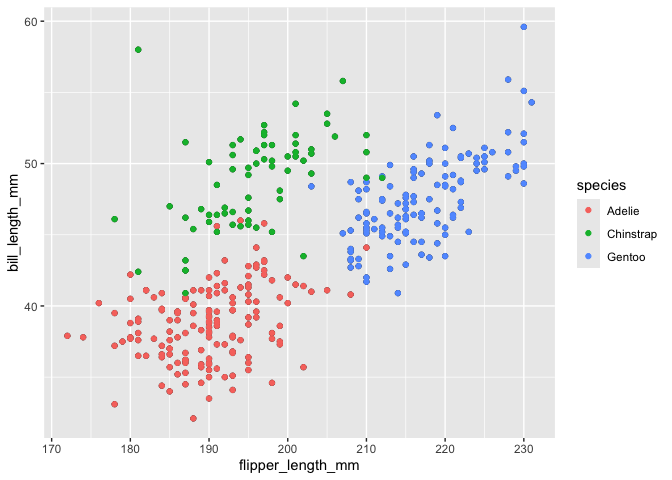
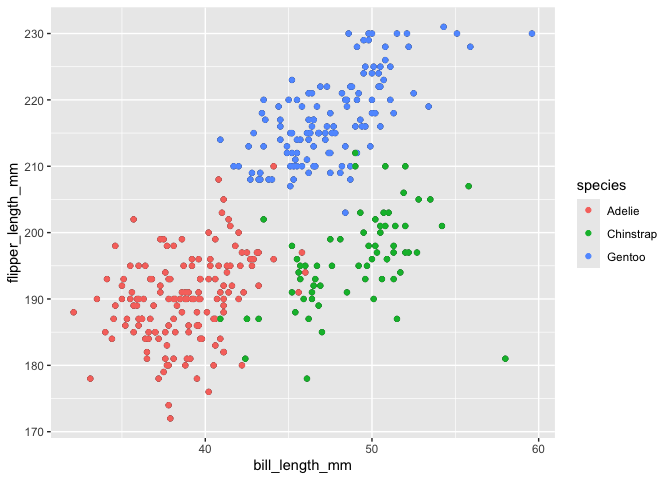
The vectors of the generated data frame were converted to numerical evaluated and the results were described. Cleaned up the project and flipped the scatterplot axes.

diff --git a/p8105_hw1_ryd2106.md b/p8105_hw1_ryd2106.md
@@ -8,27 +8,21 @@ Risa Dickerman
 ``` r
 #Load in data frame
 data("penguins", package = "palmerpenguins")
-
-#Calculate the mean flipper length per species
-flip_len_spec = aggregate(penguins$flipper_length_mm,
-                    list(penguins$species), mean, na.rm=TRUE)
 ```
 
-The penguins data set from the palmerpenguins package described the
+The penguins dataset from the palmerpenguins package described the
 morphological features of 344 different birds. There were 8 different
 variables observed. These variables included the bird’s bill_length_mm,
 bill_depth_mm, flipper_length_mm, body_mass_g, sex in addition to the
 penguin’s species, the island they lived on, and the year the samples
-were collected. The species, island, and sex variables were all
-factorial (category) values denoted by fct. The bill_length_mm and
-bill_depth_mm variables were numeric (dbl) while the year,
-flipper_length_mm, and body_mass_g were all integers (int).
+were collected. The species, island, and sex variables were all factor
+(category) values denoted by fct. The bill_length_mm and bill_depth_mm
+variables were numeric (dbl) while the year, flipper_length_mm, and
+body_mass_g were all integers (int).
 
 This study found several interesting statistics of the penguins on the
 following islands: Torgersen, Biscoe, Dream. For example, it was found
-that the mean flipper length of all these birds lie at 201mm. The mean
-flipper lengths of the Adelie, Chinstrap, and Gentoo penguins were
-190mm, 196mm, and 217mm respectively.
+that the mean flipper length of all these birds lie at 201mm.
 
 Visualizations of certain features are presented below:
 
@@ -37,7 +31,7 @@ penguins is shown below:
 
 ``` r
 #Create the scatterplot and save
-ggplot(data = penguins, mapping = aes(x = flipper_length_mm, y = bill_length_mm)) + geom_point() + geom_point(aes(color=species))
+ggplot(data = penguins, mapping = aes(x = bill_length_mm, y = flipper_length_mm)) + geom_point() + geom_point(aes(color=species))
 ```
 
 ![](p8105_hw1_ryd2106_files/figure-gfm/scatter_plot-1.png)<!-- -->
@@ -57,33 +51,37 @@ prob2_df = tibble(
   vec_random = rnorm(10, mean = 0, sd= 1 ),
   vec_logical = (vec_random > 0),
   vec_character = c("It", "was", "the", "best", "of", "times,", "it", "was", "the", "worst.."),
-  vec_factorial = factor(c("mild", "medium", "medium", "hot", "mild", "hot", "medium", "hot", "medium", "mild"))
+  vec_factor = factor(c("mild", "medium", "medium", "hot", "mild", "hot", "medium", "hot", "medium", "mild"))
 )
 
 #Take the mean of the variables
+  #Mean of the random vector
 mean_random = mean(
   pull(prob2_df,1))
+  #Mean of the logical vector
 mean_logical = mean(
   pull(prob2_df,2))
+  #Mean of the character vector
 mean_character = mean(
   pull(prob2_df,3))
-mean_factorial =mean(
+  #Mean of the factor vector
+mean_factor =mean(
   pull(prob2_df,4))
 prob2_df
 ```
 
     ## # A tibble: 10 × 4
-    ##    vec_random vec_logical vec_character vec_factorial
-    ##         <dbl> <lgl>       <chr>         <fct>        
-    ##  1    -1.63   FALSE       It            mild         
-    ##  2    -1.60   FALSE       was           medium       
-    ##  3    -0.682  FALSE       the           medium       
-    ##  4     0.0979 TRUE        best          hot          
-    ##  5    -0.530  FALSE       of            mild         
-    ##  6    -0.702  FALSE       times,        hot          
-    ##  7    -0.737  FALSE       it            medium       
-    ##  8    -0.324  FALSE       was           hot          
-    ##  9    -1.17   FALSE       the           medium       
+    ##    vec_random vec_logical vec_character vec_factor
+    ##         <dbl> <lgl>       <chr>         <fct>     
+    ##  1    -1.63   FALSE       It            mild      
+    ##  2    -1.60   FALSE       was           medium    
+    ##  3    -0.682  FALSE       the           medium    
+    ##  4     0.0979 TRUE        best          hot       
+    ##  5    -0.530  FALSE       of            mild      
+    ##  6    -0.702  FALSE       times,        hot       
+    ##  7    -0.737  FALSE       it            medium    
+    ##  8    -0.324  FALSE       was           hot       
+    ##  9    -1.17   FALSE       the           medium    
     ## 10     0.214  TRUE        worst..       mild
 
 When taking the mean of each variable in the prob2_df, some make sense
@@ -91,5 +89,36 @@ while others do not. The most logical result is the random vector’s
 (vec_randomn) mean of -0.706972. The mean of the logical vector
 (vec_logical), however, returns the numerical value 0.2 even though it
 is taken from the logical values TRUE and FALSE. Finally, taking the
-mean of both the character (vec_character) and factorial (vec_factorial)
+mean of both the character (vec_character) and factor (vec_factor)
 vectors return a NA value.
+
+One can attempt to get these non-numeric values to become integers
+through the as.numeric function but the results are mixed.
+
+``` r
+#Convert the logical vector to a numerical answer
+as.numeric(
+  pull(prob2_df,2))
+#Convert the character vector to a numerical answer
+as.numeric(
+  pull(prob2_df,3))
+#Convert the factor vector to a numerical answer
+as.numeric(
+  pull(prob2_df,4))
+```
+
+The logical values, for example, revert to 1’s and 0’s. This is because
+logical statements are Boolean data types. Within this Boolean frame
+TRUE equals 1, while FALSE equals 0. Therefore, it makes since that the
+mean of these values would produce a numeric answer. When the as.numeric
+function is applied to the character vector, a vector of NA values are
+returned. This makes sense because in R there are no inlaid assignment
+of numbers to character values. It is therefore impossible to retrieve a
+logical answer when applying functions that treat the vector as
+numerical values. The factor vector returns a set of 1’s, 2’s, and 3’s.
+These values signify a ordinal vector was created where each label
+(e.g., mild) were assigned a number (e.g., 3) corresponding to the
+degree of intensity. The data type is not a numeric value but when the
+as.numeric function is applied these values revert to the number value.
+When the mean is taken of this resulting numeric vector you can obtain a
+logical mean of 2.
